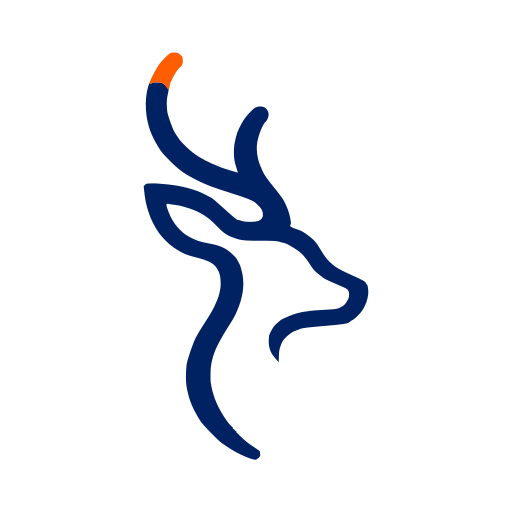
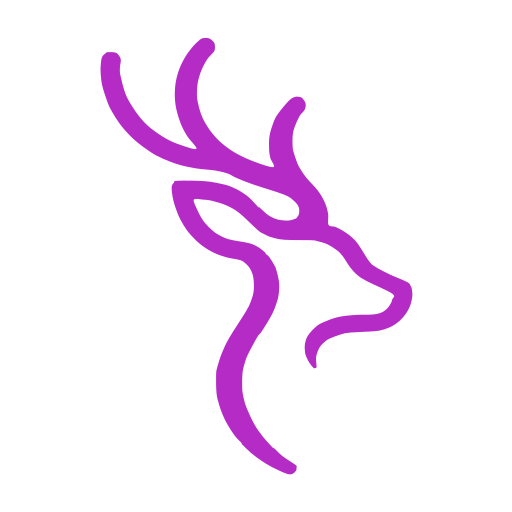
chore: record released branding in the local checkout

Changed region(s): [[0.1875, 0.0625, 0.8125, 0.9375]]

diff --git a/components/classrooms/classroom-cover-pattern.tsx b/components/classrooms/classroom-cover-pattern.tsx
@@ -1,4 +1,5 @@
 import { useId, type SVGProps } from 'react'
+import { BRAND_MARK_PATH, BRAND_MARK_VIEW_BOX } from '@/components/brand-mark-data'
 import {
   classroomCoverPatternKey,
   type ClassroomCoverPatternKey,
@@ -212,13 +213,8 @@ function patternFor(key: ClassroomCoverPatternKey) {
 
 function korKruDeerPattern() {
   return (
-    <g transform="translate(235 -2) scale(.105) translate(-366 -98)">
-      <path d={KORKRU_DEER_BODY_PATH} fill="currentColor" stroke="none" opacity=".78" fillRule="evenodd" />
-      <path d={KORKRU_DEER_ACCENT_PATH} fill="currentColor" stroke="none" opacity=".42" fillRule="evenodd" />
-    </g>
+    <svg x="238" y="2" width="78" height="96" viewBox={BRAND_MARK_VIEW_BOX}>
+      <path d={BRAND_MARK_PATH} fill="currentColor" stroke="none" opacity=".78" fillRule="evenodd" />
+    </svg>
   )
 }
-
-// Exact geometry from the approved KorKru mark in public/brand/deer-mark.svg.
-const KORKRU_DEER_BODY_PATH = 'M395 178C399.5 177.5 409.33 178 414 179C418.67 180 420.33 182 423 184C425.67 186 428.5 189 430 191C431.5 193 431.33 195.5 432 196C432.67 196.5 434.5 189.83 434 194C433.5 198.17 429.83 213 429 221C428.17 229 428.5 235.17 429 242C429.5 248.83 429.33 252.67 432 262C434.67 271.33 440.83 288.67 445 298C449.17 307.33 453.17 312.33 457 318C460.83 323.67 461.67 325.5 468 332C474.33 338.5 485.5 349.67 495 357C504.5 364.33 513.33 369.83 525 376C536.67 382.17 551.5 388.83 565 394C578.5 399.17 598.67 404.83 606 407C613.33 409.17 608.5 407.33 609 407C609.5 406.67 610.33 410.17 609 405C607.67 399.83 602.5 386 601 376C599.5 366 599.33 354.83 600 345C600.67 335.17 602.83 325.33 605 317C607.17 308.67 609.17 303 613 295C616.83 287 622 277.17 628 269C634 260.83 643.5 250.83 649 246C654.5 241.17 657 241 661 240C665 239 669.67 239.33 673 240C676.33 240.67 678.67 241.83 681 244C683.33 246.17 685.83 249.83 687 253C688.17 256.17 688.5 259.5 688 263C687.5 266.5 686 270.5 684 274C682 277.5 678.67 279.67 676 284C673.33 288.33 670.67 293 668 300C665.33 307 661.67 318 660 326C658.33 334 657.83 340.33 658 348C658.17 355.67 659.33 364.5 661 372C662.67 379.5 664.5 385 668 393C671.5 401 673.33 407.33 682 420C690.67 432.67 711.5 457 720 469C728.5 481 729.5 484.5 733 492C736.5 499.5 739 506.83 741 514C743 521.17 744.33 529.67 745 535C745.67 540.33 740.5 542.33 745 546C749.5 549.67 763.83 552.67 772 557C780.17 561.33 787.67 566.83 794 572C800.33 577.17 803.67 579.67 810 588C816.33 596.33 825.17 613 832 622C838.83 631 844 636.17 851 642C858 647.83 861.33 650.33 874 657C886.67 663.67 916.5 676.33 927 682C937.5 687.67 934.67 688.17 937 691C939.33 693.83 940.17 694.5 941 699C941.83 703.5 942.67 711.33 942 718C941.33 724.67 939.5 732.17 937 739C934.5 745.83 931.17 752.83 927 759C922.83 765.17 916.83 771.5 912 776C907.17 780.5 903.67 783 898 786C892.33 789 896.67 791.17 878 794C859.33 796.83 805.33 800.5 786 803C766.67 805.5 768.83 806.67 762 809C755.17 811.33 750.67 813.17 745 817C739.33 820.83 732.17 827.17 728 832C723.83 836.83 722.17 840.67 720 846C717.83 851.33 716 856.83 715 864C714 871.17 714.5 884.83 714 889C713.5 893.17 715 892.33 712 889C709 885.67 699.83 875.83 696 869C692.17 862.17 690.17 854.83 689 848C687.83 841.17 688.67 832.83 689 828C689.33 823.17 689 823.5 691 819C693 814.5 697.17 806.17 701 801C704.83 795.83 709.83 791.5 714 788C718.17 784.5 718.5 783.5 726 780C733.5 776.5 747.17 770.33 759 767C770.83 763.67 781 761.83 797 760C813 758.17 842.5 757.5 855 756C867.5 754.5 867.33 753.17 872 751C876.67 748.83 879.83 746.5 883 743C886.17 739.5 889.33 733.33 891 730C892.67 726.67 892.67 725.67 893 723C893.33 720.33 893.33 716.33 893 714C892.67 711.67 892.67 711 891 709C889.33 707 892.17 706.67 883 702C873.83 697.33 847 686.67 836 681C825 675.33 822.67 672.5 817 668C811.33 663.5 807.5 660.67 802 654C796.5 647.33 789.83 635.33 784 628C778.17 620.67 774.5 616 767 610C759.5 604 746.5 596 739 592C731.5 588 728.67 587.67 722 586C715.33 584.33 714 582.83 699 582C684 581.17 648.17 582.17 632 581C615.83 579.83 611.67 578.33 602 575C592.33 571.67 584.67 569 574 561C563.33 553 549.33 536 538 527C526.67 518 517.5 512.5 506 507C494.5 501.5 480 497 469 494C458 491 446.83 489.83 440 489C433.17 488.17 429.17 485.83 428 489C426.83 492.17 430.5 501.33 433 508C435.5 514.67 439.33 522.67 443 529C446.67 535.33 450.5 540.67 455 546C459.5 551.33 465.33 557 470 561C474.67 565 477.83 567 483 570C488.17 573 495 576.5 501 579C507 581.5 509.83 582.67 519 585C528.17 587.33 545.67 589.83 556 593C566.33 596.17 573.33 599.17 581 604C588.67 608.83 597.33 617.33 602 622C606.67 626.67 606.5 627.5 609 632C611.5 636.5 614.67 641.5 617 649C619.33 656.5 622 667.67 623 677C624 686.33 624 695.33 623 705C622 714.67 619.67 725.5 617 735C614.33 744.5 610.33 754.17 607 762C603.67 769.83 602.5 772.5 597 782C591.5 791.5 581.33 806.17 574 819C566.67 831.83 558.33 846.17 553 859C547.67 871.83 544.17 883.5 542 896C539.83 908.5 539.83 924 540 934C540.17 944 541.67 949.17 543 956C544.33 962.83 546 968.67 548 975C550 981.33 551.83 986.83 555 994C558.17 1001.17 562.17 1009.67 567 1018C571.83 1026.33 579 1037.33 584 1044C589 1050.67 594.83 1055.33 597 1058C599.17 1060.67 595.33 1058.17 597 1060C598.67 1061.83 605.33 1067.17 607 1069C608.67 1070.83 602.67 1066.67 607 1071C611.33 1075.33 623.67 1087.5 633 1095C642.33 1102.5 657.5 1111.5 663 1116C668.5 1120.5 665.5 1119.5 666 1122C666.5 1124.5 667.5 1128.17 666 1131C664.5 1133.83 659.67 1137.67 657 1139C654.33 1140.33 653.83 1139.83 650 1139C646.17 1138.17 641.33 1137 634 1134C626.67 1131 615 1125.83 606 1121C597 1116.17 587.83 1110.33 580 1105C572.17 1099.67 568.5 1097.83 559 1089C549.5 1080.17 531.5 1061.67 523 1052C514.5 1042.33 513 1039.33 508 1031C503 1022.67 497 1011.17 493 1002C489 992.83 486.5 985.5 484 976C481.5 966.5 479 956 478 945C477 934 477.33 920 478 910C478.67 900 478.83 896.5 482 885C485.17 873.5 492 853.17 497 841C502 828.83 504.5 824.83 512 812C519.5 799.17 534.5 777.17 542 764C549.5 750.83 553.5 741.33 557 733C560.5 724.67 561.5 720.5 563 714C564.5 707.5 565.83 701.33 566 694C566.17 686.67 565.5 676.83 564 670C562.5 663.17 560.17 658 557 653C553.83 648 550.5 643.83 545 640C539.5 636.17 534.5 633.67 524 630C513.5 626.33 492.83 621.83 482 618C471.17 614.17 466.67 611.5 459 607C451.33 602.5 443.17 597 436 591C428.83 585 421.83 577.83 416 571C410.17 564.17 405.83 558.17 401 550C396.17 541.83 391.17 532.5 387 522C382.83 511.5 378.83 499.67 376 487C373.17 474.33 370.5 453.83 370 446C369.5 438.17 371.5 441.67 373 440C374.5 438.33 373.17 436.67 379 436C384.83 435.33 394.67 435 408 436C421.33 437 443 439 459 442C475 445 491.17 449.5 504 454C516.83 458.5 528.33 465 536 469C543.67 473 539.17 469 550 478C560.83 487 590.5 514.5 601 523C611.5 531.5 608.33 527.33 613 529C617.67 530.67 622.33 532.33 629 533C635.67 533.67 646.83 533.67 653 533C659.17 532.33 662.67 531.17 666 529C669.33 526.83 672 523.83 673 520C674 516.17 673.83 510.67 672 506C670.17 501.33 668 497.17 662 492C656 486.83 656.17 483.17 636 475C615.83 466.83 565.67 452.5 541 443C516.33 433.5 502 425.67 488 418C474 410.33 468 406.17 457 397C446 387.83 430.5 372.33 422 363C413.5 353.67 411 349 406 341C401 333 395.83 323.33 392 315C388.17 306.67 385.5 299.67 383 291C380.5 282.33 378.33 273 377 263C375.67 253 374.83 241.17 375 231C375.17 220.83 376.5 210.5 378 202C379.5 193.5 382.5 183.33 384 180C385.5 176.67 385.17 182.33 387 182C388.83 181.67 390.5 178.5 395 178Z'
-const KORKRU_DEER_ACCENT_PATH = 'M445 102C448.67 101.5 452.67 101.83 456 103C459.33 104.17 462.83 106.83 465 109C467.17 111.17 468.33 112.67 469 116C469.67 119.33 469.67 125.5 469 129C468.33 132.5 467 134.33 465 137C463 139.67 460.17 140.83 457 145C453.83 149.17 449.17 156.33 446 162C442.83 167.67 440.17 173.33 438 179C435.83 184.67 435.5 195.17 433 196C430.5 196.83 426.17 186.83 423 184C419.83 181.17 418.67 180 414 179C409.33 178 399.83 177.5 395 178C390.17 178.5 385.83 184 385 182C384.17 180 385.83 174.5 390 166C394.17 157.5 402.67 141 410 131C417.33 121 428.17 110.83 434 106C439.83 101.17 441.33 102.5 445 102Z'

diff --git a/components/brand-mark-data.ts b/components/brand-mark-data.ts
@@ -1,0 +1,7 @@
+// Generated by scripts/vectorize-brand-mark.mjs; edit the source image and regenerate.
+export const BRAND_MARK_VIEW_BOX = '144 208 737 1028'
+export const BRAND_MARK_ASPECT_RATIO = '737 / 1028'
+export const BRAND_MARK_WIDTH = 737
+export const BRAND_MARK_HEIGHT = 1028
+export const BRAND_MARK_PATH = 'M390 212C393.67 211.5 398.33 211.5 402 213C405.67 214.5 409.83 218.5 412 221C414.17 223.5 414.5 225.17 415 228C415.5 230.83 415.5 235.17 415 238C414.5 240.83 415 241 412 245C409 249 401.83 254.67 397 262C392.17 269.33 386.67 279.83 383 289C379.33 298.17 376.67 307.83 375 317C373.33 326.17 373 336.5 373 344C373 351.5 373.5 354.67 375 362C376.5 369.33 379.17 380 382 388C384.83 396 387.5 402.17 392 410C396.5 417.83 402.5 427 409 435C415.5 443 421.67 450.17 431 458C440.33 465.83 452 474.67 465 482C478 489.33 494.5 496.67 509 502C523.5 507.33 546 515.5 552 514C558 512.5 546.67 499.83 545 493C543.33 486.17 542.33 481.67 542 473C541.67 464.33 541.33 451.5 543 441C544.67 430.5 548.67 418.67 552 410C555.33 401.33 557 397.5 563 389C569 380.5 581.5 365.5 588 359C594.5 352.5 597.67 351.5 602 350C606.33 348.5 611 349.5 614 350C617 350.5 617.83 350.67 620 353C622.17 355.33 625.83 360.33 627 364C628.17 367.67 627.67 371.83 627 375C626.33 378.17 625.33 379.67 623 383C620.67 386.33 616.67 388.5 613 395C609.33 401.5 603.67 414.33 601 422C598.33 429.67 597.67 433.67 597 441C596.33 448.33 596.67 459.83 597 466C597.33 472.17 597.17 471.5 599 478C600.83 484.5 605.17 498 608 505C610.83 512 612.33 514.17 616 520C619.67 525.83 623.33 531.83 630 540C636.67 548.17 649 559.67 656 569C663 578.33 668 587 672 596C676 605 678.5 614.17 680 623C681.5 631.83 678.17 643.83 681 649C683.83 654.17 691.67 651.83 697 654C702.33 656.17 707 658.33 713 662C719 665.67 726.83 670.67 733 676C739.17 681.33 743 684.5 750 694C757 703.5 768.33 724.17 775 733C781.67 741.83 781.83 741.67 790 747C798.17 752.33 811.5 759 824 765C836.5 771 856.83 778.5 865 783C873.17 787.5 871.17 789.17 873 792C874.83 794.83 875.33 795.83 876 800C876.67 804.17 877.67 810.67 877 817C876.33 823.33 874.5 831.33 872 838C869.5 844.67 866.17 851 862 857C857.83 863 852.33 869.17 847 874C841.67 878.83 836.17 882.67 830 886C823.83 889.33 817 892 810 894C803 896 800.83 896.83 788 898C775.17 899.17 745.83 899.83 733 901C720.17 902.17 719.17 902.67 711 905C702.83 907.33 690.33 912.17 684 915C677.67 917.83 677 918.5 673 922C669 925.5 663.5 930 660 936C656.5 942 653.17 950.5 652 958C650.83 965.5 653.33 976.67 653 981C652.67 985.33 651.17 983.5 650 984C648.83 984.5 648.17 985.83 646 984C643.83 982.17 639.67 977 637 973C634.33 969 631.83 964.33 630 960C628.17 955.67 626.67 952.5 626 947C625.33 941.5 624.83 933.5 626 927C627.17 920.5 628.83 914.5 633 908C637.17 901.5 645 893.17 651 888C657 882.83 660.33 880.83 669 877C677.67 873.17 690.83 867.83 703 865C715.17 862.17 728.67 861 742 860C755.33 859 772.83 859.83 783 859C793.17 858.17 797.5 857 803 855C808.5 853 812.33 850.17 816 847C819.67 843.83 822.67 839.83 825 836C827.33 832.17 829.17 828.33 830 824C830.83 819.67 839.83 817.17 830 810C820.17 802.83 784.5 788.17 771 781C757.5 773.83 755.5 772.33 749 767C742.5 761.67 737.83 756.5 732 749C726.17 741.5 719.33 728.83 714 722C708.67 715.17 706.17 712.67 700 708C693.83 703.33 684.67 697.5 677 694C669.33 690.5 660.17 688.5 654 687C647.83 685.5 652.67 685.5 640 685C627.33 684.5 593.5 685.17 578 684C562.5 682.83 555.17 680.33 547 678C538.83 675.67 534.33 672.83 529 670C523.67 667.17 524.33 669 515 661C505.67 653 485 631.5 473 622C461 612.5 453.67 608.83 443 604C432.33 599.17 418.33 595.33 409 593C399.67 590.67 394.17 590.5 387 590C379.83 589.5 368.5 586.67 366 590C363.5 593.33 369.17 603 372 610C374.83 617 379.5 626 383 632C386.5 638 388.67 641 393 646C397.33 651 404 657.67 409 662C414 666.33 416.5 668.5 423 672C429.5 675.5 436 679.67 448 683C460 686.33 483.67 689 495 692C506.33 695 509.67 697.33 516 701C522.33 704.67 530 711.33 533 714C536 716.67 532.5 715.33 534 717C535.5 718.67 538.67 719.67 542 724C545.33 728.33 551.17 737.83 554 743C556.83 748.17 557.17 748.5 559 755C560.83 761.5 564 773.5 565 782C566 790.5 565.67 798.5 565 806C564.33 813.5 563.67 818.33 561 827C558.33 835.67 555 846.17 549 858C543 869.83 530.83 889 525 898C519.17 907 519.33 903.17 514 912C508.67 920.83 497.67 941.5 493 951C488.33 960.5 488.17 961.83 486 969C483.83 976.17 481.17 983.5 480 994C478.83 1004.5 478.5 1021.5 479 1032C479.5 1042.5 481.17 1049.17 483 1057C484.83 1064.83 486 1069.33 490 1079C494 1088.67 501 1104.33 507 1115C513 1125.67 518.67 1133.67 526 1143C533.33 1152.33 546.5 1166.33 551 1171C555.5 1175.67 549.33 1167.83 553 1171C556.67 1174.17 564.5 1183.33 573 1190C581.5 1196.67 598.5 1206.67 604 1211C609.5 1215.33 605.83 1213.83 606 1216C606.17 1218.17 606.67 1221.33 605 1224C603.33 1226.67 599.83 1230.83 596 1232C592.17 1233.17 589.83 1233.67 582 1231C574.17 1228.33 558.67 1221 549 1216C539.33 1211 532.17 1206.5 524 1201C515.83 1195.5 507.67 1189.5 500 1183C492.33 1176.5 481.67 1165.83 478 1162C474.33 1158.17 480.67 1163.17 478 1160C475.33 1156.83 467.5 1150.17 462 1143C456.5 1135.83 449.67 1125 445 1117C440.33 1109 437.33 1102.83 434 1095C430.67 1087.17 427.5 1078.67 425 1070C422.5 1061.33 420.17 1054.67 419 1043C417.83 1031.33 417.67 1010.33 418 1000C418.33 989.67 418.67 989.67 421 981C423.33 972.33 427.33 959.33 432 948C436.67 936.67 439.83 928.83 449 913C458.17 897.17 478.67 867 487 853C495.33 839 495.83 837.33 499 829C502.17 820.67 505 812.5 506 803C507 793.5 506.5 780.67 505 772C503.5 763.33 500.5 756.83 497 751C493.5 745.17 488.17 740.33 484 737C479.83 733.67 479 733 472 731C465 729 452 727.83 442 725C432 722.17 421.83 718.83 412 714C402.17 709.17 392 703 383 696C374 689 364.83 679.67 358 672C351.17 664.33 346.83 657.83 342 650C337.17 642.17 333 634.67 329 625C325 615.33 320.5 602.5 318 592C315.5 581.5 313.83 568.83 314 562C314.17 555.17 316.67 553.67 319 551C321.33 548.33 315.83 546.67 328 546C340.17 545.33 373.67 545.5 392 547C410.33 548.5 426.67 552.33 438 555C449.33 557.67 453.5 560.17 460 563C466.5 565.83 471 568.17 477 572C483 575.83 489.33 580 496 586C502.67 592 513.17 604.33 517 608C520.83 611.67 515.5 605.17 519 608C522.5 610.83 532.17 620.67 538 625C543.83 629.33 548.83 631.83 554 634C559.17 636.17 563.33 637.17 569 638C574.67 638.83 582.33 639.5 588 639C593.67 638.5 599.83 636.17 603 635C606.17 633.83 605.5 634 607 632C608.5 630 611.33 627.17 612 623C612.67 618.83 613.17 612.17 611 607C608.83 601.83 604.83 596.83 599 592C593.17 587.17 592 584.33 576 578C560 571.67 521.5 560.5 503 554C484.5 547.5 474.67 543.17 465 539C455.33 534.83 453.17 531.83 445 529C436.83 526.17 428.33 524 416 522C403.67 520 385.33 519.33 371 517C356.67 514.67 343 511.83 330 508C317 504.17 303.83 498.83 293 494C282.17 489.17 275.5 485.83 265 479C254.5 472.17 240 461.5 230 453C220 444.5 211.67 435.33 205 428C198.33 420.67 194.83 415.83 190 409C185.17 402.17 180.17 394.33 176 387C171.83 379.67 169 375.33 165 365C161 354.67 154.83 336.5 152 325C149.17 313.5 148.67 304.17 148 296C147.33 287.83 147.5 282.5 148 276C148.5 269.5 149.17 261.67 151 257C152.83 252.33 156.67 250 159 248C161.33 246 161.17 245.33 165 245C168.83 244.67 177.83 244.83 182 246C186.17 247.17 187.83 249.17 190 252C192.17 254.83 194.5 258.17 195 263C195.5 267.83 193.17 275 193 281C192.83 287 192 289.17 194 299C196 308.83 200.83 328.5 205 340C209.17 351.5 213 358.17 219 368C225 377.83 233.33 389.83 241 399C248.67 408.17 254.83 414.83 265 423C275.17 431.17 290 441.33 302 448C314 454.67 325.33 459.17 337 463C348.67 466.83 369.83 474.67 372 471C374.17 467.33 356.33 451.33 350 441C343.67 430.67 338.5 421.17 334 409C329.5 396.83 325 381.5 323 368C321 354.5 321 340.5 322 328C323 315.5 325.5 304.17 329 293C332.5 281.83 337.67 270.67 343 261C348.33 251.33 354.83 242.5 361 235C367.17 227.5 375.17 219.83 380 216C384.83 212.17 386.33 212.5 390 212Z'
+export const BRAND_MARK_URL = '/brand/deer-mark.svg?v=3'

diff --git a/app/exam-screen-lab/classroom-announcements/page.tsx b/app/exam-screen-lab/classroom-announcements/page.tsx
@@ -12,7 +12,7 @@ const posts: ClassroomPost[] = [
     classroom_id: 'lab-classroom',
     author_id: 'lab-author',
     body: 'ประกาศจำลอง — กดรูปเพื่อขยายโดยไม่ออกจากหน้านี้',
-    attachments: [{ url: '/logo.png', name: 'ภาพประกาศแนวตั้ง.png', mime: 'image/png', size: 0 }],
+    attachments: [{ url: '/brand/deer-mark.svg?v=3', name: 'ภาพประกาศแนวตั้ง.png', mime: 'image/png', size: 0 }],
     pinned: false,
     created_at: '2026-10-05T00:00:00Z',
     updated_at: '2026-10-05T00:00:00Z',
@@ -26,7 +26,7 @@ const posts: ClassroomPost[] = [
     author_id: 'lab-author',
     body: 'ประกาศจำลองหลายรูป — เปิดรูปที่เลือกและคืนโฟกัสเมื่อปิด',
     attachments: [
-      { url: '/logo.png', name: 'ภาพแนวตั้งในชุด.png', mime: 'image/png', size: 0 },
+      { url: '/brand/deer-mark.svg?v=3', name: 'ภาพแนวตั้งในชุด.png', mime: 'image/png', size: 0 },
       { url: '/samples/simple-circuit.svg', name: 'ภาพแนวนอนในชุด.svg', mime: 'image/svg+xml', size: 0 },
     ],
     pinned: false,

diff --git a/components/brand-logo.tsx b/components/brand-logo.tsx
@@ -1,4 +1,5 @@
 import { cn } from '@/lib/utils'
+import { BRAND_MARK_ASPECT_RATIO, BRAND_MARK_URL } from '@/components/brand-mark-data'
 
 interface BrandLogoProps {
   layout?: 'horizontal' | 'stacked'
@@ -20,11 +21,12 @@ export function BrandLogo({ layout = 'horizontal', subtitle, compact = false, cl
       <span
         aria-hidden="true"
         style={{
-          WebkitMask: "url('/brand/deer-mark.svg') center / contain no-repeat",
-          mask: "url('/brand/deer-mark.svg') center / contain no-repeat",
+          WebkitMask: `url('${BRAND_MARK_URL}') center / contain no-repeat`,
+          mask: `url('${BRAND_MARK_URL}') center / contain no-repeat`,
+          aspectRatio: BRAND_MARK_ASPECT_RATIO,
         }}
         className={cn(
-          'block aspect-[580/1045] shrink-0 bg-brand-accent',
+          'block shrink-0 bg-brand-accent',
           stacked
             ? (compact ? 'h-8' : 'h-10')
             : (compact ? 'h-8' : 'h-11'),

diff --git a/components/exam/exam-waiting-room.tsx b/components/exam/exam-waiting-room.tsx
@@ -1,5 +1,6 @@
 'use client'
 
+import { BRAND_MARK_HEIGHT, BRAND_MARK_URL, BRAND_MARK_WIDTH } from '@/components/brand-mark-data'
 import Image from 'next/image'
 import {
   CalendarClock,
@@ -92,11 +93,11 @@ export function ExamWaitingRoom({ summary, busy, error, code, onCodeChange, onSt
   return (
     <Card padding="lg" className="assignment-waiting-stage relative isolate flex w-full max-w-5xl flex-col gap-4 overflow-hidden">
       <Image
-        src="/brand/deer-mark.svg"
+        src={BRAND_MARK_URL}
         alt=""
         aria-hidden="true"
-        width={585}
-        height={1045}
+        width={BRAND_MARK_WIDTH}
+        height={BRAND_MARK_HEIGHT}
         loading="eager"
         className="pointer-events-none absolute right-8 top-5 -z-10 hidden h-72 w-auto opacity-5 md:block dark:brightness-0 dark:invert"
       />

diff --git a/docs/FEATURE_STATUS.md b/docs/FEATURE_STATUS.md
@@ -24,6 +24,21 @@
 - local fixture `/exam-screen-lab/student-dashboard` มีสถานะปกติ/ว่าง/12 งานในวันเดียว/กุมภาพันธ์ปีอธิกสุรทิน ใช้ข้อมูลสังเคราะห์เท่านั้น; ตรวจ 320/390/768/1280px, hover และ Tab, สลับวัน/เดือน/ปี/กลับวันนี้, ปิด popup ภายนอก/Escape/คืน focus, scroll ในรายละเอียด, วันกำหนดส่ง 00:30 น. ของไทยและ 29 กุมภาพันธ์ · axe ไม่มี violation ในหน้าและปฏิทินที่ขยาย (บาง mobile scroll/ขอบ focus มี contrast incomplete จึงตรวจภาพแยก)
 - TypeScript, design-token lint และ webpack production build ผ่าน; Next MCP compilation/runtime และ browser console ไม่มี error · ไม่รัน unit suite เพราะไม่แก้ `lib/`, ไม่ทดสอบบัญชี/ฐานข้อมูลจริง, ไม่มี migration; เจ้าของขอ commit ในเครื่องและดู localhost เท่านั้น ยังไม่ push หรือเผยแพร่ Production
 
+### ไอคอนเว็บวงกลมขาวและ local branding — 14 ตุลาคม 2026
+
+- เจ้าของขอให้ icon ที่แท็บ Chrome เป็นกวางสามเขาสีม่วงขนาดใหญ่บนวงกลมขาวเต็ม canvas มี alpha โปร่งใสนอกวงกลม; `app/icon.png` และ Apple touch icon สร้างจาก SVG เดียวกันด้วย `scripts/build-brand-icons.mjs`
+- โลโก้เว็บจริงรอบ PR #48 เสร็จแล้ว แต่ checkout ที่รัน localhost:3000 ยังไม่ได้รับไฟล์ใหม่; รอบนี้ sync เฉพาะไฟล์แบรนด์กลับโฟลเดอร์ local โดยรักษางาน practice/dashboard/student classroom ที่ยังไม่อยู่ Production
+
+### โลโก้กวางสามเขา — 14 ตุลาคม 2026
+
+- เจ้าของเลือกภาพตัวอย่างที่เขาที่สามโค้งกางไปด้านซ้ายเหนือหู และอนุมัติปรับทุกจุดพร้อมเผยแพร่ Production
+- SVG ใหม่ trace จากภาพที่เลือก ใช้สีเดียวและคง theme token เดิม; header, landing/footer, หน้าบัญชี, watermark หน้ารอสอบ/แบบฝึกหัด, ลายปกห้องเรียน และไอคอน browser/Apple ใช้ geometry ใหม่ครบ พร้อม version URL กัน cache รูปเก่า
+- ตรวจ TypeScript, design-token lint, 50 tests ของ cover/waiting UI และ production webpack build ผ่าน; local Chrome ตรวจ header/หน้าบัญชี/หน้ารอ, mobile 390px ไม่ล้น และโลโก้โหมดมืดอ่านได้; Next MCP compilation/runtime ไม่พบ error และ React tree ใช้ BrandLogo/ClassroomCoverPattern เดิม · ไม่ทดสอบ Auth-to-DB หรือ mutation บน hosted site
+- เผยแพร่ผ่าน GitHub/Vercel project `jk` ตามการอนุมัติของเจ้าของ โดยแยก branch `codex/three-antler-logo` จาก Production base `9adb8b3` เพื่อกันงาน practice/dashboard ที่ยังไม่เผยแพร่ออกจาก release · ก่อนรายงาน success ต้องยืนยัน READY, alias `korkru.com` และ hash SVG/icons ตรงกับ candidate · การลอง CLI ก่อนเชื่อม GitHub ใหม่ (`dpl_ErSAd3Ed1eGsyxx5NzNBvRBTF2tx`) ถูก BLOCKED เพราะ author permission และ push ล้มเหลวจาก token invalid; เจ้าของยืนยัน GitHub CLI ใหม่แล้ว 14 ตุลาคม 2026 ไม่เปลี่ยน author metadata หรือสิทธิ์เพื่อข้าม gate
+- `.vercelignore` กัน local dependencies/build caches/environment files จาก CLI uploads; source package 9.9 MB
+- เก็บภาพต้นฉบับและ legacy assets เดิมไว้สำหรับประวัติ ไม่แตะ schema, Auth, RLS, ข้อมูลนักเรียน หรือ migration
+
+
 ### การ์ดห้องเรียนของนักเรียนและช่องเข้าร่วมห้องแบบย่อ — 14 ตุลาคม 2026
 
 - **UI-117** — `/classrooms` ของนักเรียนใช้ `ClassroomCard` ร่วมกับครู จึงแสดงสี ลายปก ไอคอน ระดับชั้น ภาคเรียน และกรอบโฮมรูมจาก metadata เดียวกัน; ส่วนท้ายของนักเรียนแสดงงานรอทำ/ครูที่ปรึกษาและทางเข้าห้อง ส่วนครูคงจำนวนคน/งานและคำสั่งจัดการเดิม แยก section โฮมรูม/วิชาและไม่สร้างหัวข้อว่าง

diff --git a/docs/DESIGN_SYSTEM.md b/docs/DESIGN_SYSTEM.md
@@ -6,7 +6,8 @@
 
 - ชื่อหลัก: **ก่อครู**
 - English mark: **KorKru**
-- โลโก้หลักใช้รูปกวางเรียบจากภาพที่เจ้าของผลิตภัณฑ์ส่ง 6 ตุลาคม 2026 ผ่าน `components/brand-logo.tsx` ร่วมกันทั้ง header หน้าเว็บสาธารณะและหน้าบัญชี โดย UI ใช้ geometry จาก `public/brand/deer-mark.svg` เป็น CSS mask สีเดียว จึงคงขอบคมทุกระดับการซูมและไม่มี glow/blur/bitmap ฝังอยู่ · ตาม UI-063 กวางทั้งตัวและตัว `o` ในคำว่า `KorKru` ใช้ token `brand-accent` เดียวกัน ซึ่งอ้างอิง `primary` ของ preset ปัจจุบันและเปลี่ยนตาม light/dark mode ส่วนตัวอักษรอื่นใช้ `brand-foreground` กรมท่า `#002262` ในโหมดสว่าง/ขาวในโหมดมืด ไม่ใช้สีดำของ UI foreground · เก็บภาพต้นฉบับ โลโก้เต็มเดิมที่ `public/logo.png` และไอคอนเดิมที่ `public/brand/legacy-*.png` ไว้ ไม่ลบหรือเขียนทับ
+- โลโก้หลักใช้รูปกวางสามเขาที่เจ้าของผลิตภัณฑ์เลือก 14 ตุลาคม 2026: เขาที่สามโค้งกางไปด้านซ้ายเหนือหู ผ่าน `components/brand-logo.tsx` ร่วมกันทั้ง header หน้าเว็บสาธารณะและหน้าบัญชี โดย UI ใช้ geometry จาก `public/brand/deer-mark.svg` เป็น CSS mask สีเดียว จึงคงขอบคมทุกระดับการซูมและไม่มี glow/blur/bitmap ฝังอยู่ · ตาม UI-063 กวางทั้งตัวและตัว `o` ในคำว่า `KorKru` ใช้ token `brand-accent` เดียวกัน ซึ่งอ้างอิง `primary` ของ preset ปัจจุบันและเปลี่ยนตาม light/dark mode ส่วนตัวอักษรอื่นใช้ `brand-foreground` กรมท่า `#002262` ในโหมดสว่าง/ขาวในโหมดมืด ไม่ใช้สีดำของ UI foreground · เก็บภาพต้นฉบับ โลโก้เต็มเดิมที่ `public/logo.png` และไอคอนเดิมที่ `public/brand/legacy-*.png` ไว้ ไม่ลบหรือเขียนทับ
+- SVG และ `components/brand-mark-data.ts` สร้างจาก `public/brand/deer-mark-three-antlers-source.png` ด้วย `node scripts/vectorize-brand-mark.mjs`; `BrandLogo` ใช้อัตราส่วนจาก geometry นี้ ลายปกกวางใช้ path เดียวกัน และ favicon/Apple touch icon เป็นกวางม่วงบนวงกลมขาว มุมนอกวงกลมโปร่งใส สร้างใหม่ด้วย `node scripts/build-brand-icons.mjs`
 - แนวคิดภาษา: **“ก่อ…โดยครู”**
 - ขนาดภาพกวางใน `BrandLogo`: stacked `h-10`, horizontal `h-11` และ compact `h-8`; ทุก layout ต้องใช้กวางสีเดียวกับตัว `o` ผ่าน `brand-accent` ห้ามแยกสีเขาหรือฝังสี hex ใน component · ปุ่มสามขีดใน header ใช้ `pl-3` เพื่อให้ขอบพื้นปุ่มตรงกับขอบซ้ายของแถบเมนูหลักเมื่อแถบเต็ม
 

diff --git a/public/brand/README.md b/public/brand/README.md
@@ -1,15 +1,16 @@
 # KorKru brand assets
 
-Approved by the product owner on 6 October 2026 (UI-002).
+The owner approved the three-antler mark and its Production release on 14 October 2026.
 
-- `deer-mark-source.png`: exact original image supplied by the owner; retained unchanged.
-- `deer-mark.png`: transparent raster cutout prepared with the built-in imagegen tool; retained as the earlier asset.
-- `deer-mark.svg`: flat vector trace generated from the original silhouette. This is the web UI source so the mark stays sharp at every zoom level and contains no glow, blur, gradient, filter or embedded bitmap.
-- `legacy-icon.png` and `legacy-apple-icon.png`: unchanged copies of the previous browser and home-screen icons.
-- The previous full logo remains unchanged at `public/logo.png`; retain it for future use.
-- `components/brand-logo.tsx` uses the SVG mark with the exact wordmark `KorKru` (both K letters uppercase). Light mode retains navy/orange. Dark mode renders the mark white. Following UI-009, other letters use `brand-foreground`: `#002262` in light mode, sampled from the dominant high-alpha navy pixels of the mark, and white in dark mode. The owner selected the antler-tip orange for the `o`, so `brand-accent` is now `#fe5d00` in both modes, replacing the darker UI-007 choice. The previous raster and legacy assets remain available.
-- `node scripts/vectorize-brand-mark.mjs` reproducibly traces the two flat color regions from the untouched source into the SVG. `node scripts/build-brand-icons.mjs` renders that SVG into `app/icon.png` and `app/apple-icon.png` on a white square so it remains legible in browser and OS chrome.
+- `deer-mark-three-antlers-source.png`: approved imagegen concept, retained unchanged. The third antler curves outward to the upper left above the ear.
+- `deer-mark.svg`: flat single-color vector trace of that approved silhouette, with a transparent background and no embedded bitmap, gradients, filters or glow.
+- `components/brand-mark-data.ts`: generated path, viewBox, aspect ratio and versioned asset URL shared by the UI and classroom cover pattern.
+- `components/brand-logo.tsx`: renders the mark as a theme-colored mask, matching the `o` in `KorKru`. Other letters retain `brand-foreground`. The aspect ratio comes from the generated geometry.
+- `app/icon.png` and `app/apple-icon.png`: regenerated from the purple SVG on full-size white circles with transparent corners for browser tabs and home screens (owner approved 14 October 2026).
+- The original `deer-mark-source.png`, earlier `deer-mark.png`, `legacy-icon.png`, `legacy-apple-icon.png`, and `public/logo.png` remain historical assets; active logo surfaces use the new mark.
 
-## Final imagegen prompt
+Regenerate the vector and shared geometry with `node scripts/vectorize-brand-mark.mjs`, then regenerate browser and home-screen icons with `node scripts/build-brand-icons.mjs`.
 
-Extract the EXACT original deer logo into a PNG with true alpha transparency. This is a strict graphic cleanup, not creative generation. The original mark is a SOLID FLAT two-color graphic: navy blue deer shape, orange antler tip. Keep every curve and proportion identical to the source. Output solid opaque navy and orange inside the mark; all background including holes in the ear and between antlers must be 100% transparent with alpha zero. Absolutely NO glow, NO aura, NO gradients, NO smoke, NO soft shadows, NO colored halos, NO shading. The logo must have clean sharp hard boundaries with only normal one-pixel edge antialiasing. The transparent canvas must be closely cropped around the original shape. No text, no watermark. Preserve the original, do not invent a new deer.
+## Approved imagegen edit prompt
+
+Revise the third antler to follow the red guide's broad sweep from above and behind the ear toward the upper left, with an upright rounded tip. Replace the former short left antler; keep exactly three antler tips. Refine the curve, stroke weight and spacing, join the base smoothly, remove the red guide and make the entire mark purple. Preserve the deer head, ear, muzzle and neck.
